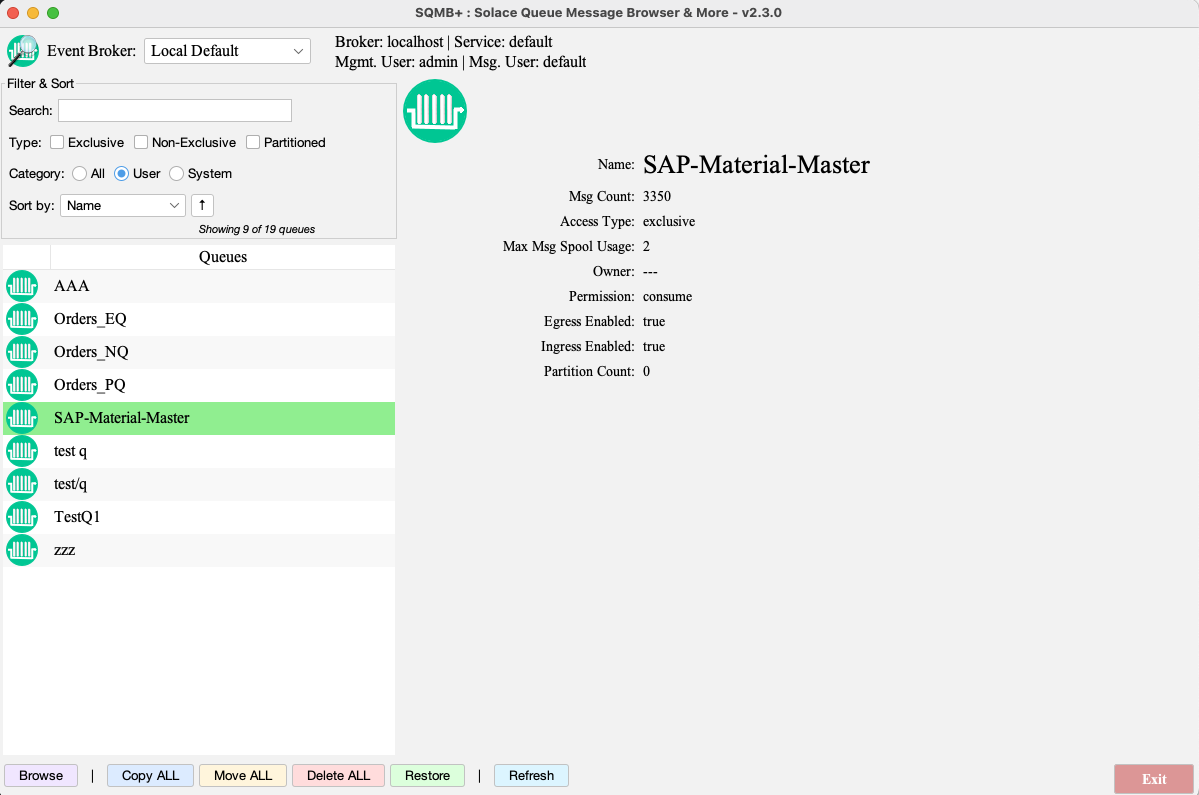
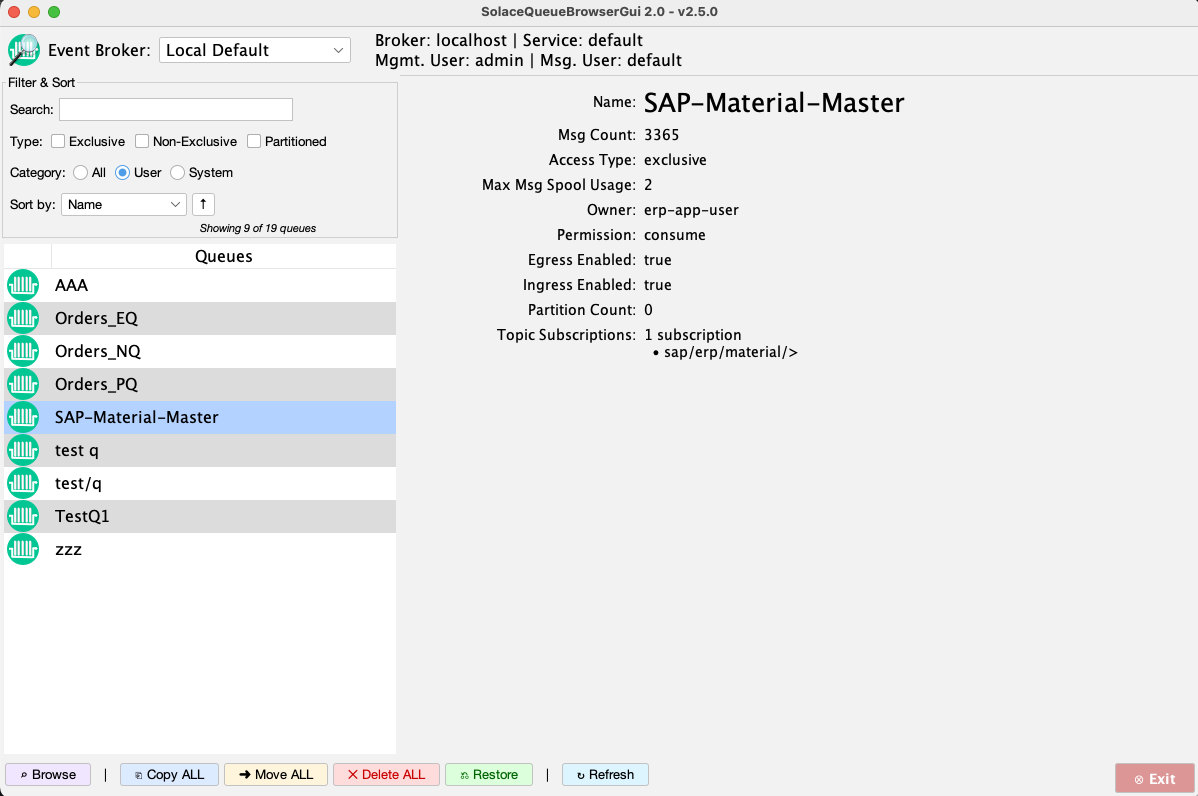
adding updated main-window graphics

diff --git a/SolaceQueueBrowserGui/docs/USER_GUIDE.md b/SolaceQueueBrowserGui/docs/USER_GUIDE.md
@@ -1126,20 +1126,11 @@ Log levels and formatting configured in `config/log4j2.properties`.
 ## Appendix
 
 ### Version History
-
-- **v2.4.2**: UI profile enhancements:
-  - Button text icons support (Unicode icons for Modern and Dark profiles)
-  - FlatDarkLaf integration for Dark profile (automatic theme switching)
-  - Font consistency improvements (SansSerif throughout Modern profile)
-  - Enhanced table row colors (black/grey for light themes, black/dark grey for dark theme)
-  - Darker button colors for Dark profile
-  - Command-line profile switching via `--ui-profile` option
-  - Script updates (run.sh and run.bat) to support profile switching
+- **v2.5.0**: Support for number and list of topic subscriptions in the main window
 - **v2.4.0**: Multiple UI profile support (Clean, Modern, Dark) for cross-platform customization
 - **v2.3.0**: Runtime distribution package and User Guide updates
 - **v2.2.0**: Added message restore functionality and improved operation logging
-- **v2.1.2**: Multi-broker support, filtering, and password encryption
-- **v2.0.2**: SMF error handling improvements
+- **v2.1.0**: Multi-broker support, filtering, and password encryption
 - **v2.0.0**: Major UI improvements and cross-platform compatibility
 
 ### Support
